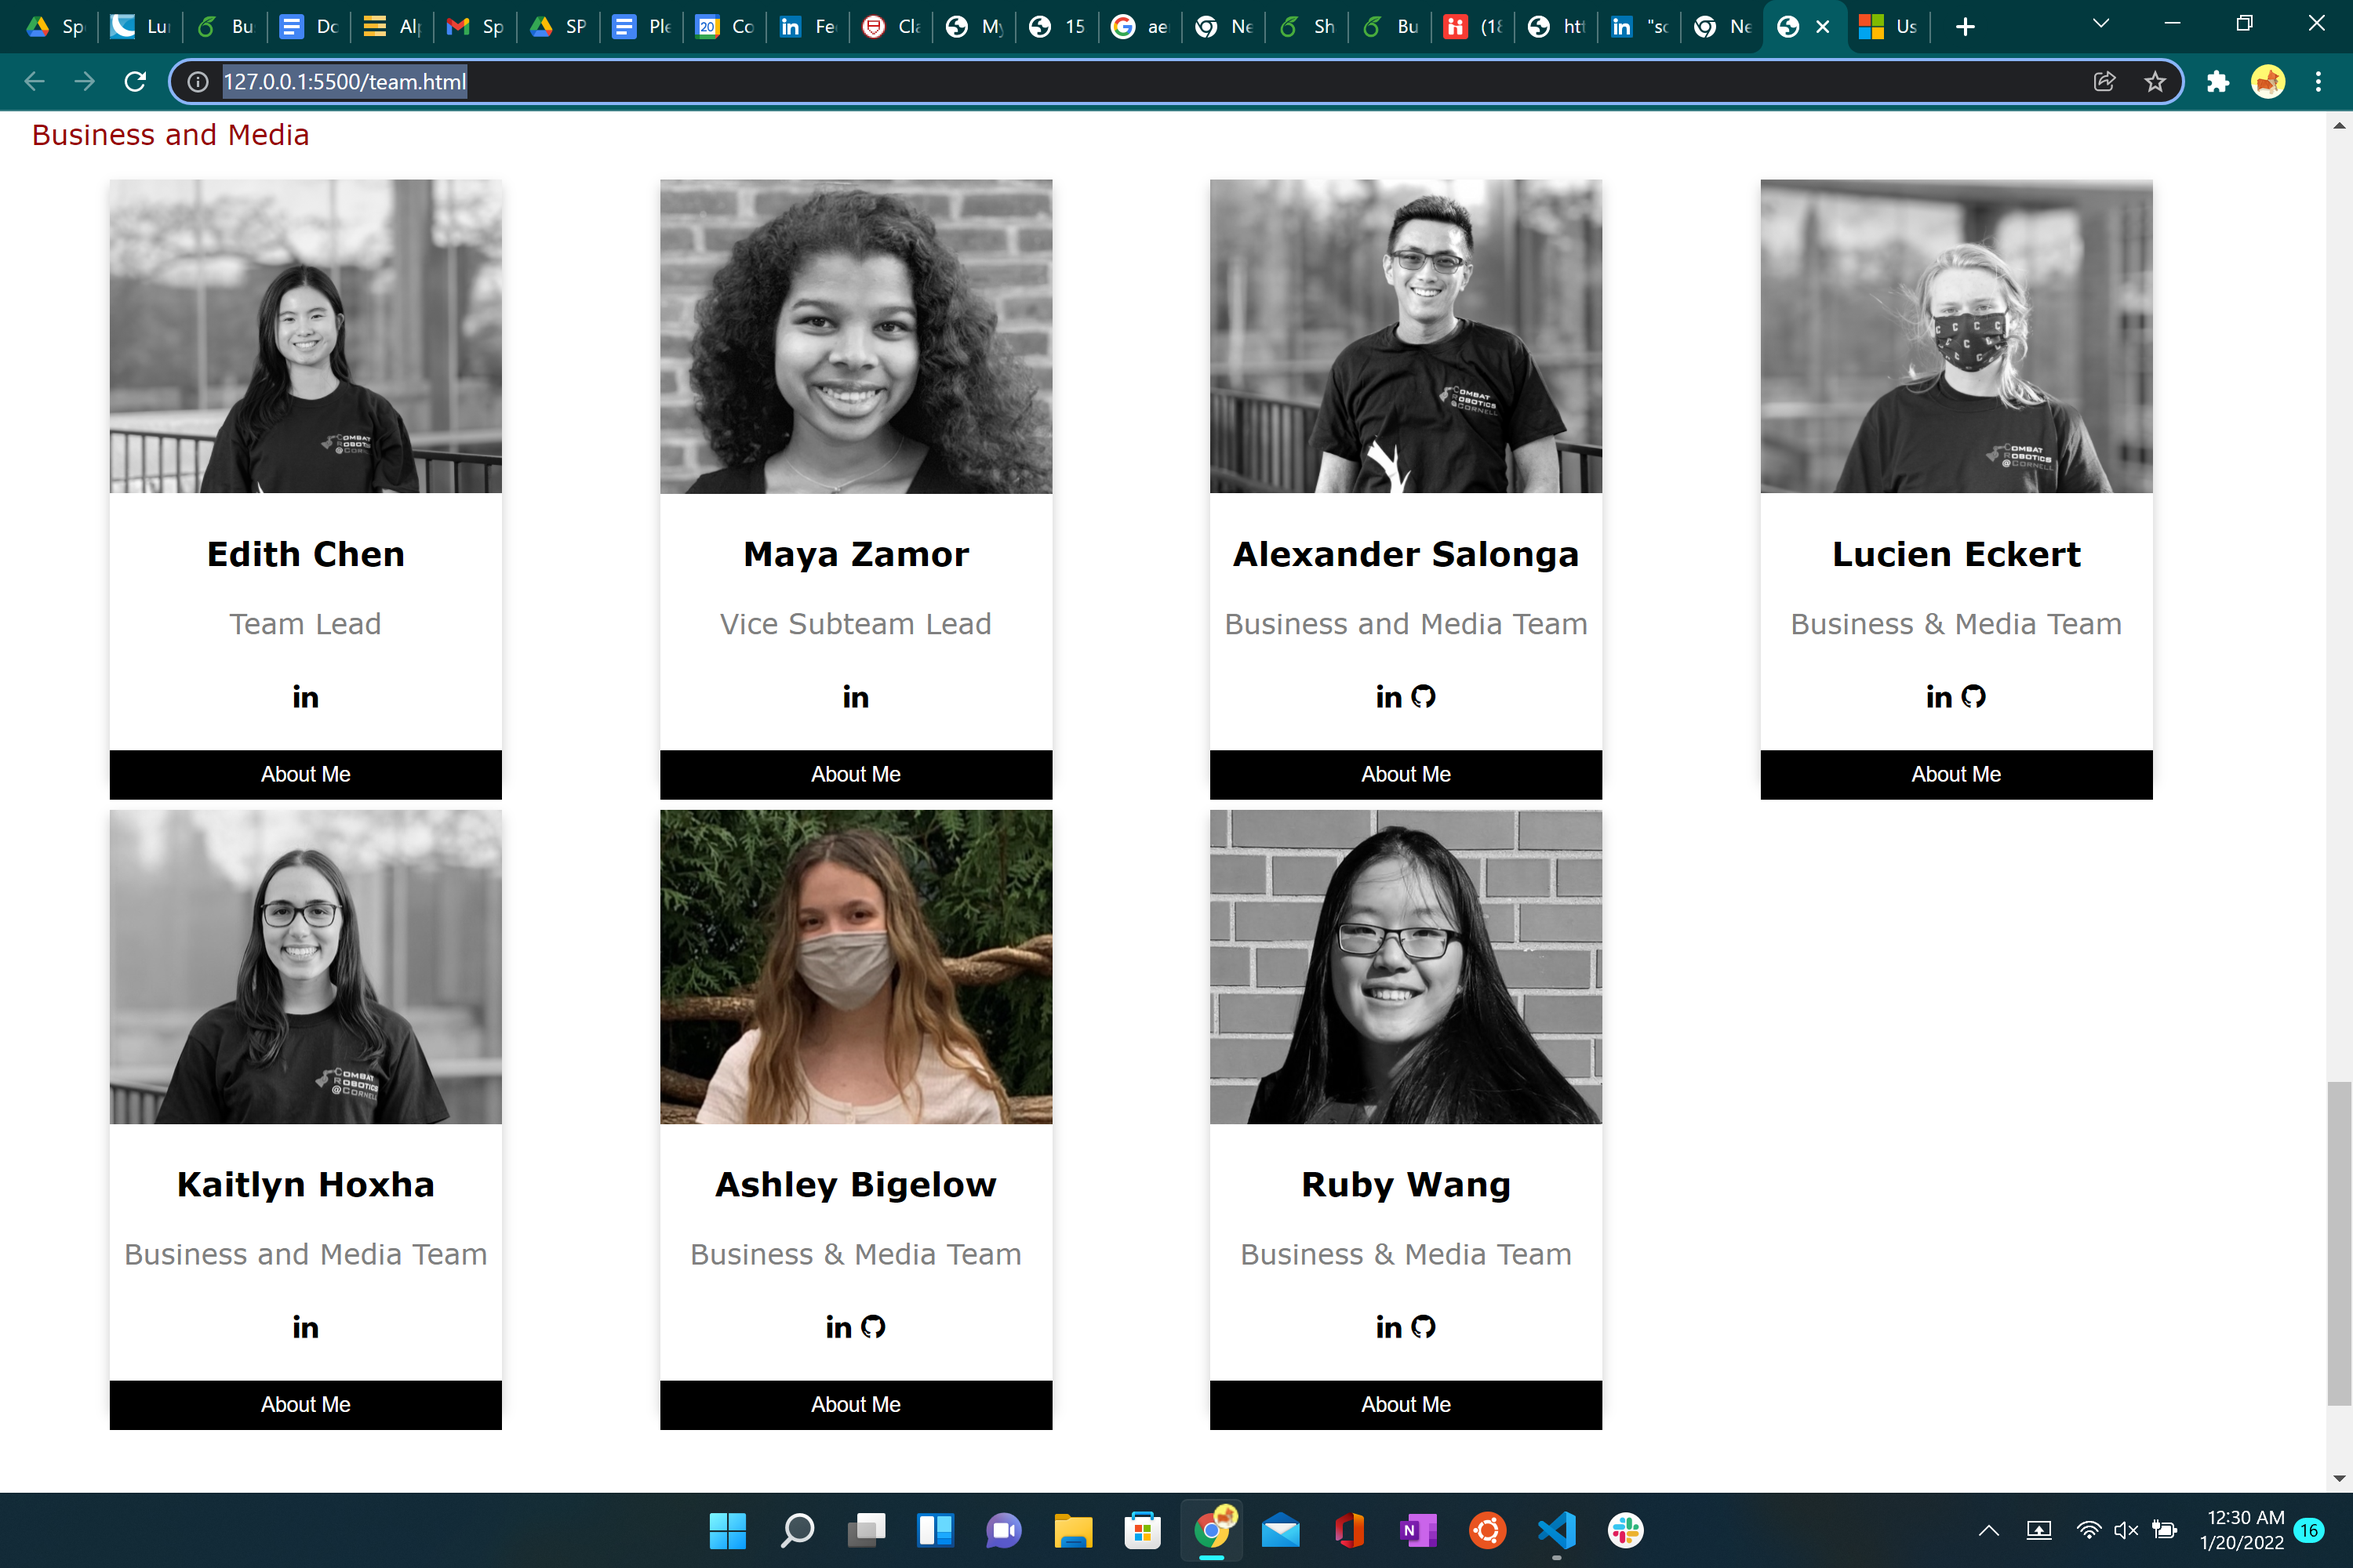
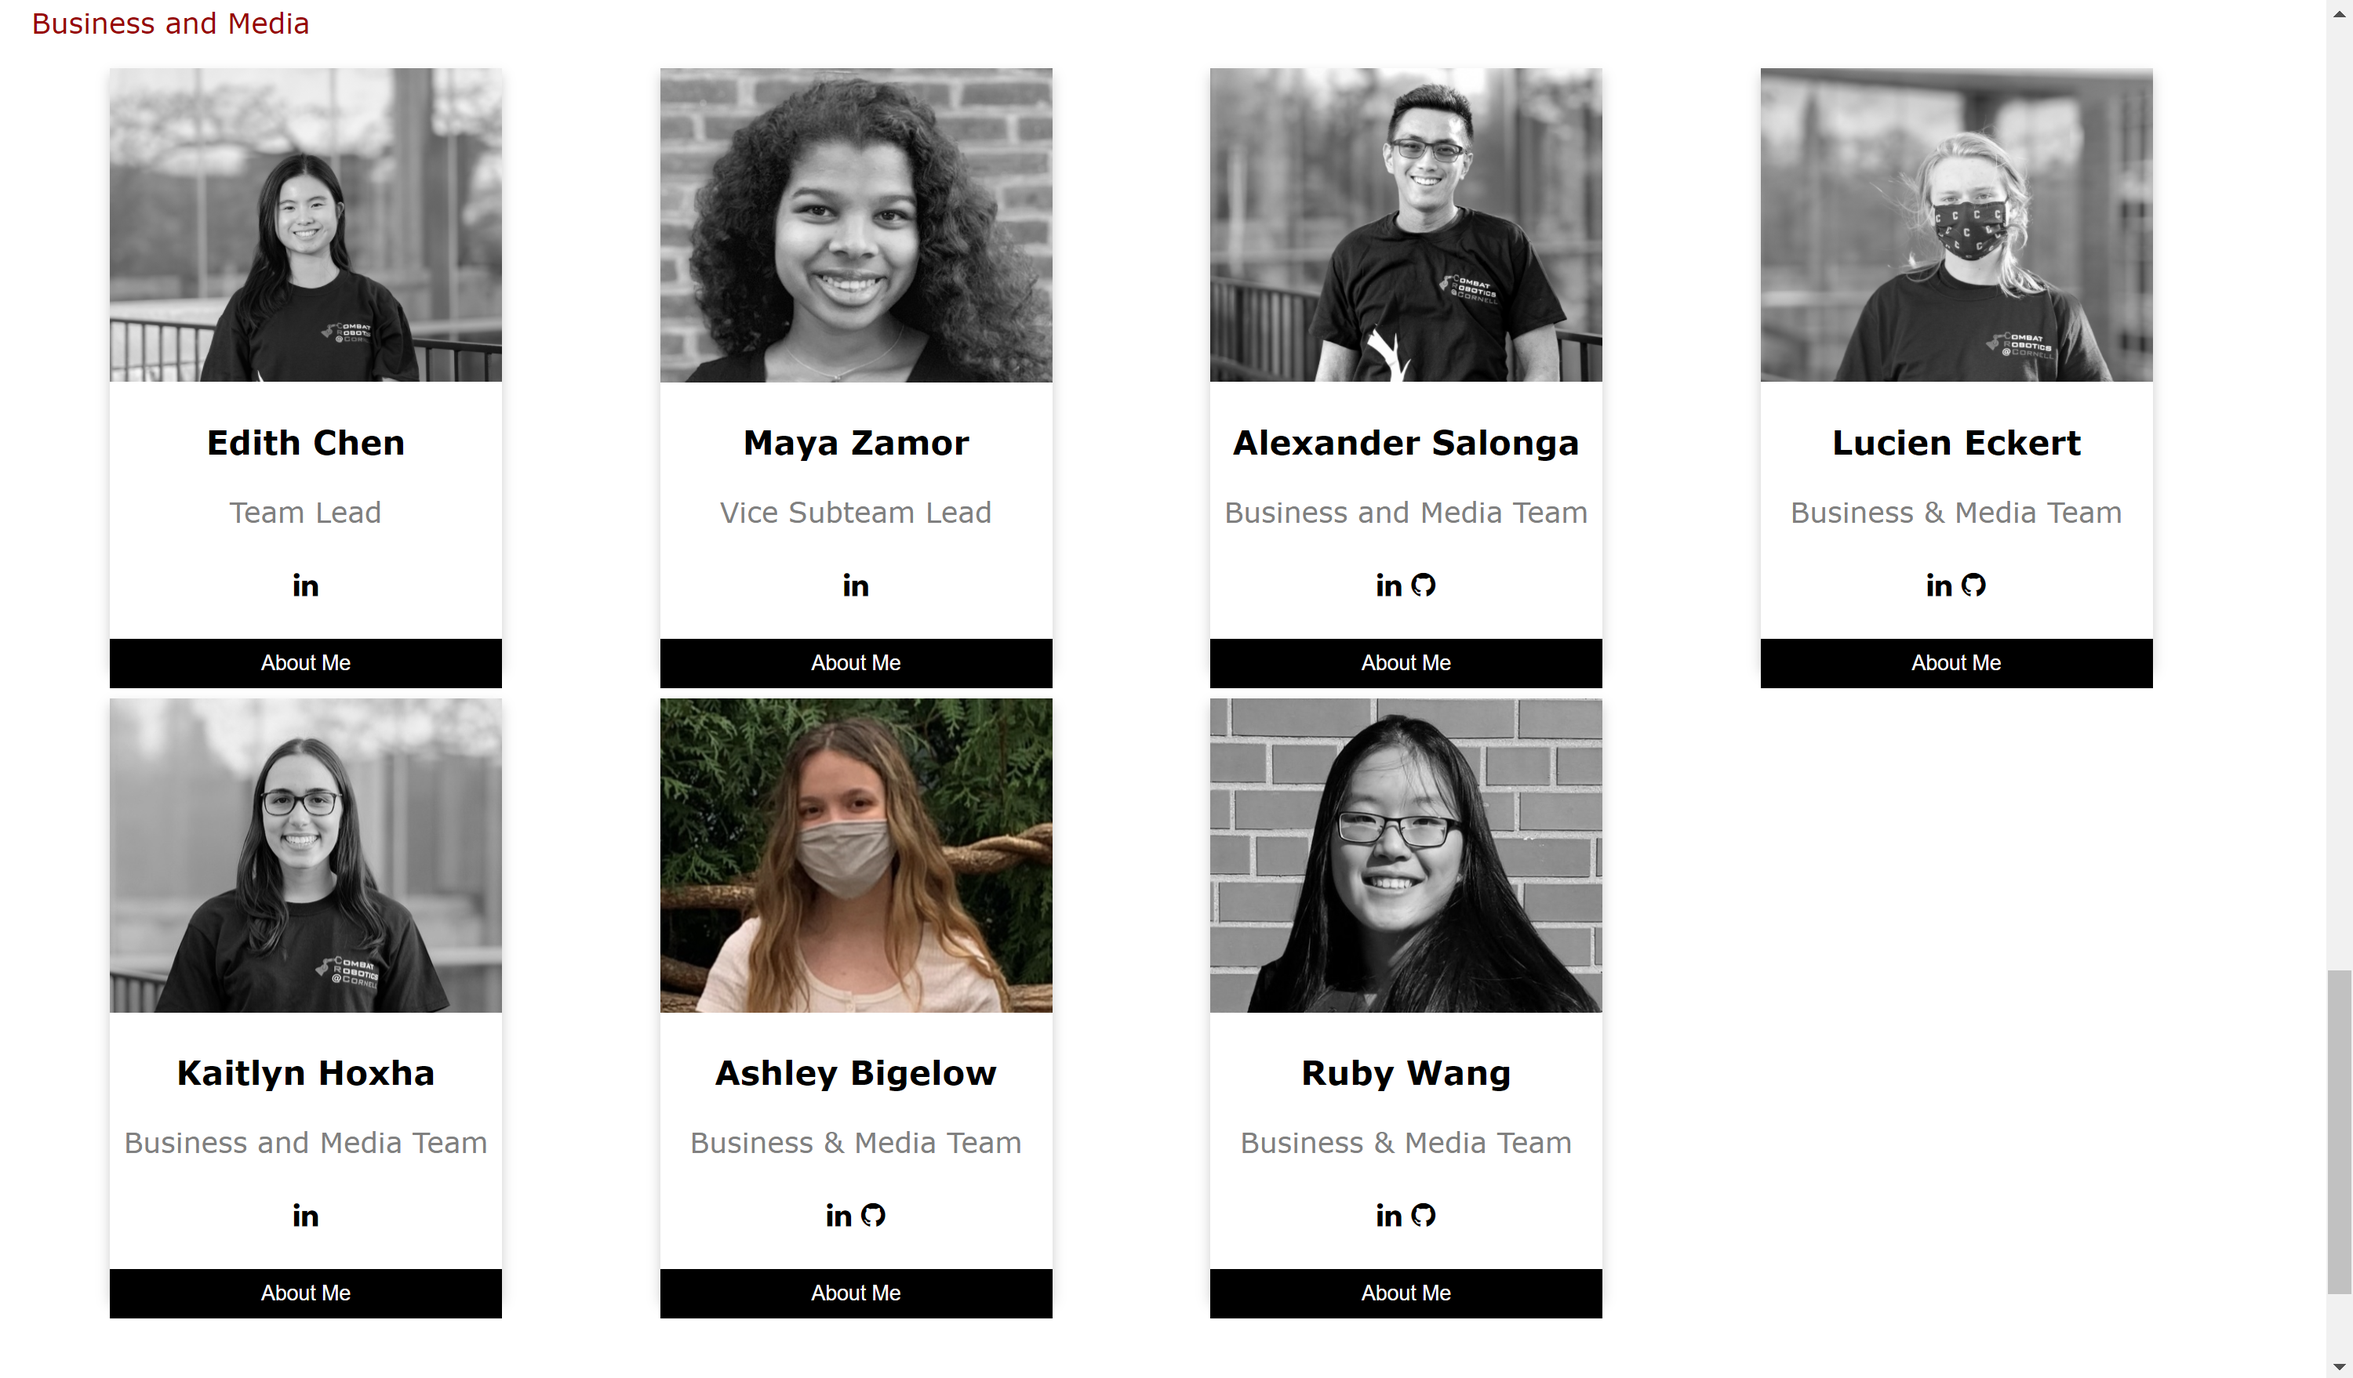
changed website image

diff --git a/crc.html b/crc.html
@@ -26,7 +26,7 @@
       that anyone regardless of coding experience was able to help. I mainly worked
       on the menu bar at the top of the page and the team page.
     </p>
-    <p class="centerImage"><img src="images/CRC_Website.png"></p>
+    <p class="centerImage"><img src="images/CRC_Website.png" width = "600"></p>
     <a class="buttons" style="margin-left: 640;">View Our Website</a>
 </body>
 
